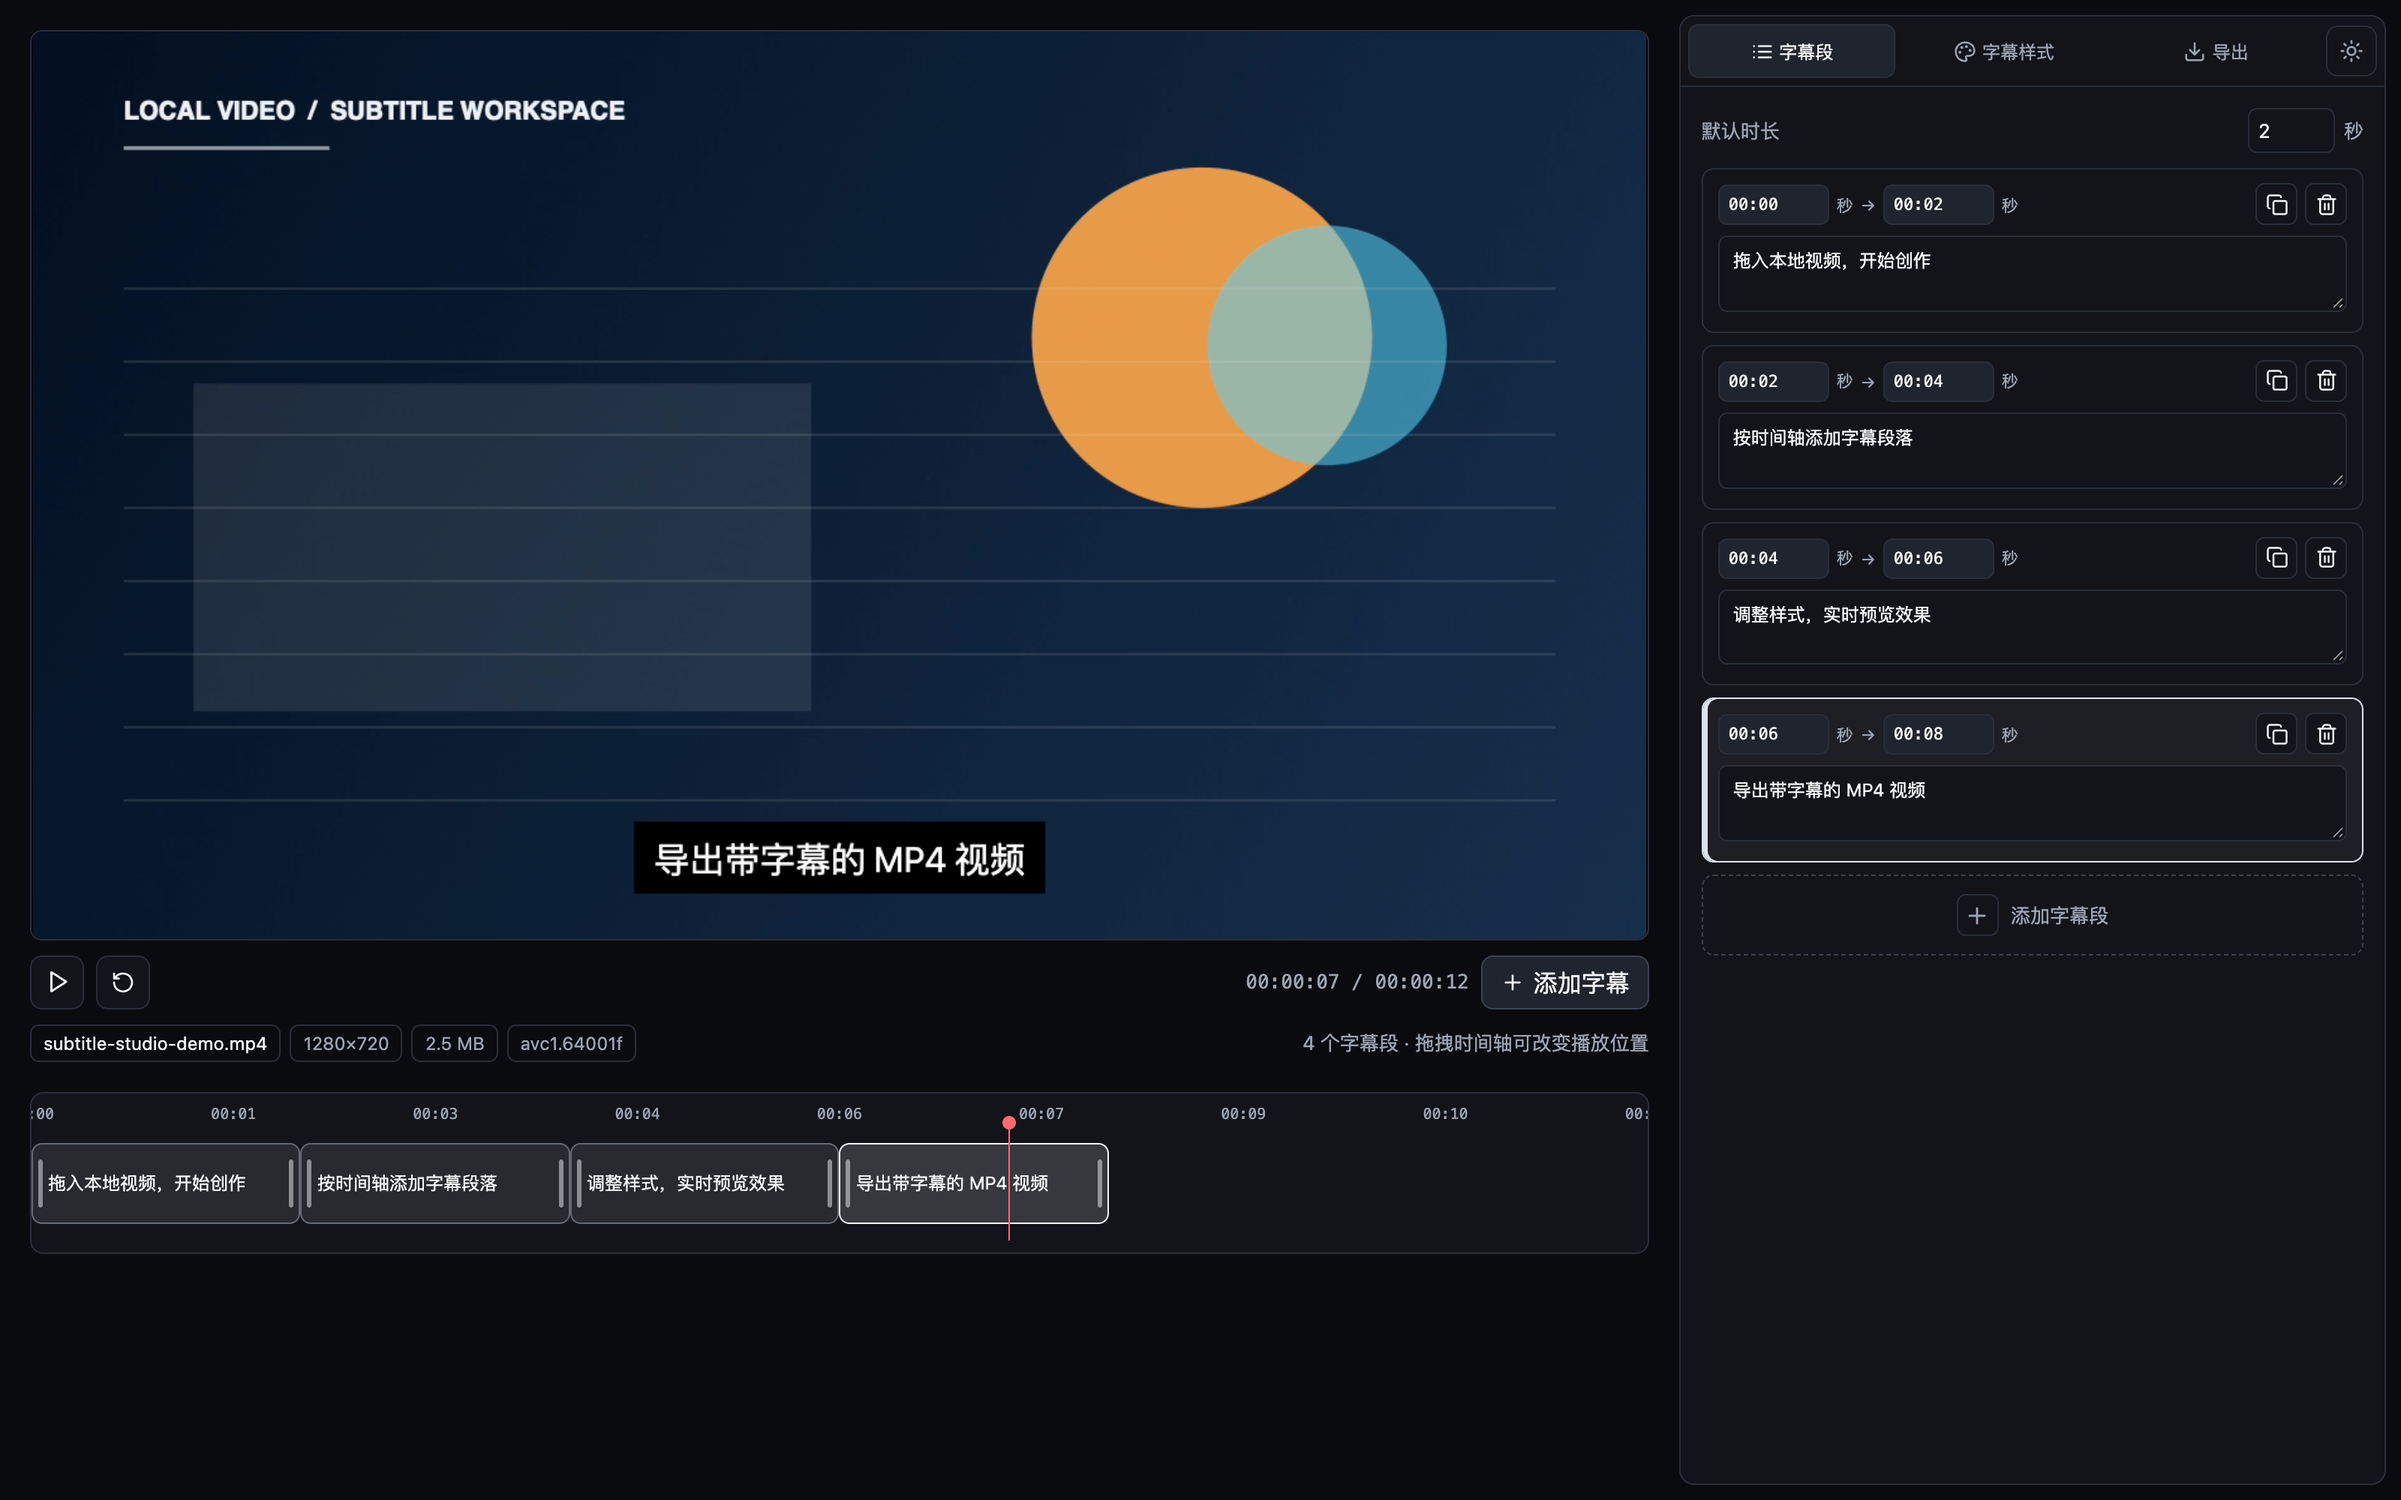
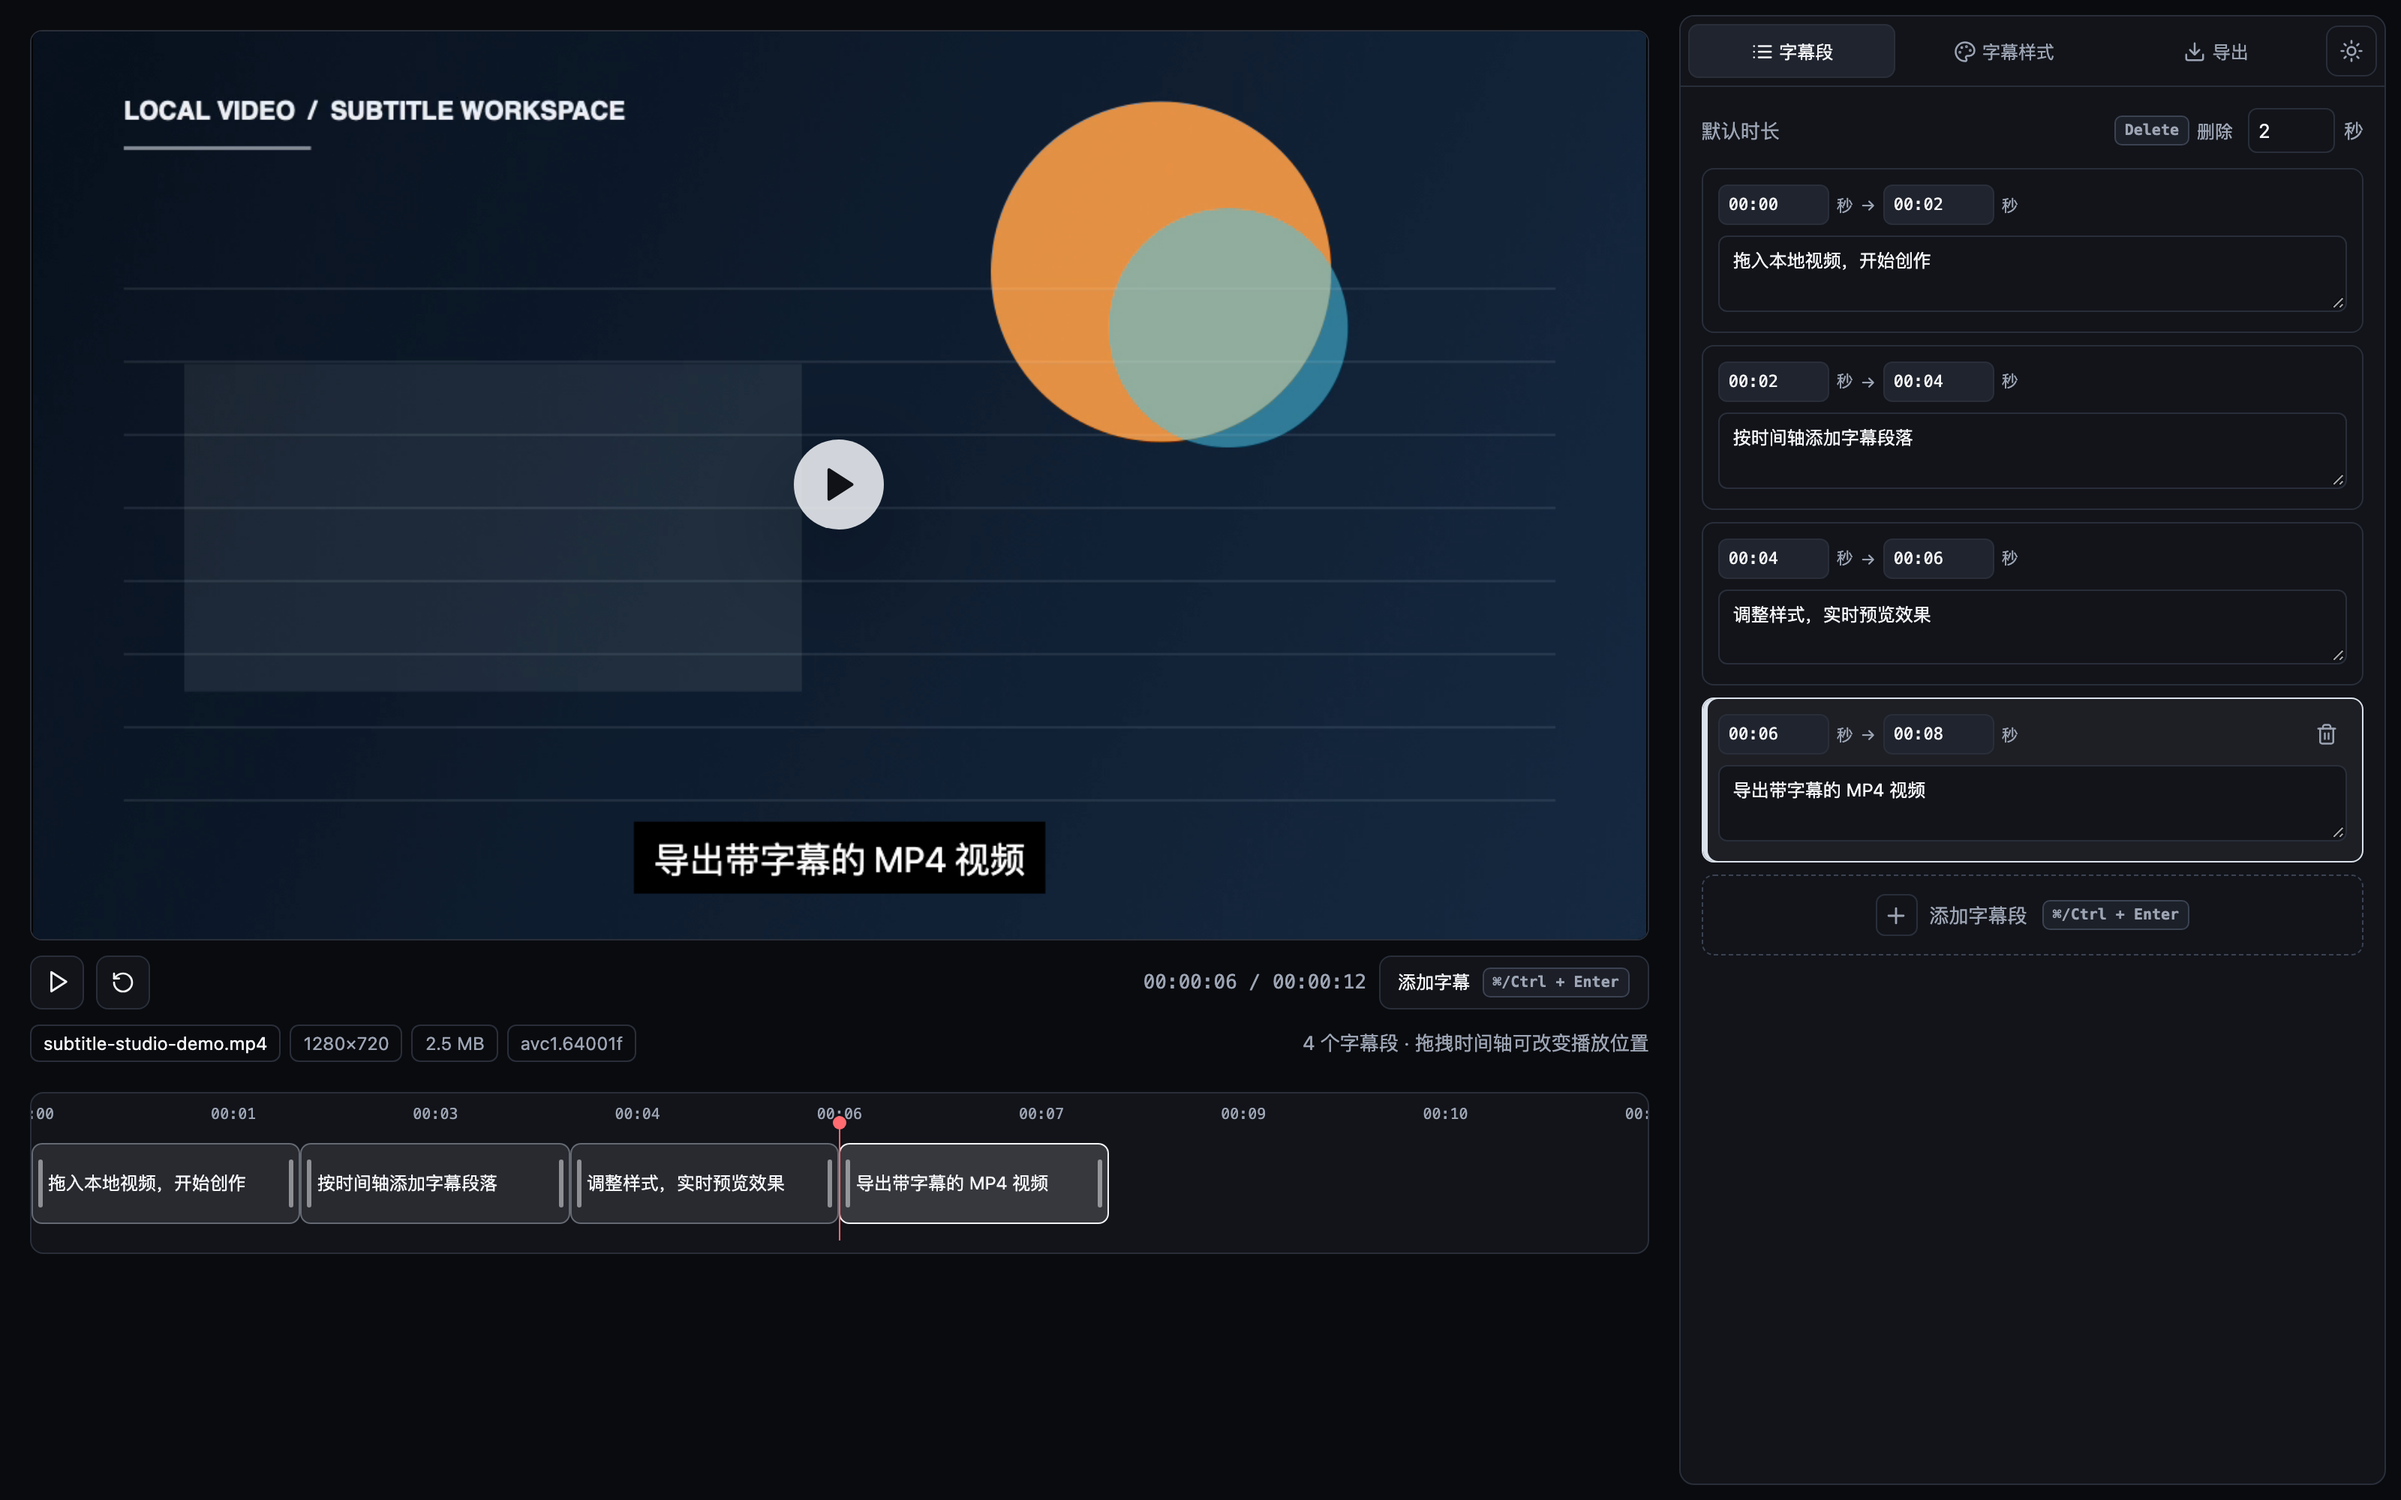
feat: 添加首页网格交互光效并更新截图

diff --git a/src/styles.css b/src/styles.css
@@ -2873,8 +2873,80 @@ input[type="color"] {
 
 /* Landing page refinement */
 .upload-screen {
+  --grid-focus-x: 50%;
+  --grid-focus-y: 50%;
+  --grid-focus-opacity: 0;
   padding: 0 28px;
   background-size: 52px 52px;
+}
+
+.grid-cursor-focus {
+  position: fixed;
+  inset: 0;
+  z-index: 0;
+  pointer-events: none;
+  background-image:
+    linear-gradient(
+      color-mix(in srgb, var(--landing-accent) 34%, transparent) 1px,
+      transparent 1px
+    ),
+    linear-gradient(
+      90deg,
+      color-mix(in srgb, var(--landing-accent) 34%, transparent) 1px,
+      transparent 1px
+    );
+  background-size: 52px 52px;
+  opacity: var(--grid-focus-opacity);
+  mix-blend-mode: screen;
+  will-change: opacity;
+  -webkit-mask-image: radial-gradient(
+    circle 220px at var(--grid-focus-x) var(--grid-focus-y),
+    #000 0%,
+    rgba(0, 0, 0, 0.68) 24%,
+    rgba(0, 0, 0, 0.24) 58%,
+    transparent 100%
+  );
+  mask-image: radial-gradient(
+    circle 220px at var(--grid-focus-x) var(--grid-focus-y),
+    #000 0%,
+    rgba(0, 0, 0, 0.68) 24%,
+    rgba(0, 0, 0, 0.24) 58%,
+    transparent 100%
+  );
+  transition: opacity 240ms ease;
+}
+
+:root[data-theme="light"] .grid-cursor-focus {
+  mix-blend-mode: multiply;
+}
+
+.upload-screen::before {
+  content: "";
+  position: fixed;
+  top: -30%;
+  left: -90%;
+  z-index: 0;
+  width: 190vw;
+  height: 160vh;
+  pointer-events: none;
+  background: linear-gradient(
+    105deg,
+    transparent 42%,
+    color-mix(in srgb, var(--landing-accent) 8%, transparent) 47%,
+    color-mix(in srgb, var(--landing-accent) 28%, transparent) 50%,
+    color-mix(in srgb, var(--landing-accent) 8%, transparent) 53%,
+    transparent 58%
+  );
+  filter: blur(1px);
+  mix-blend-mode: screen;
+  opacity: 0;
+  transform: translate3d(0, 0, 0) rotate(-6deg);
+  will-change: transform, opacity;
+  animation: grid-light-sweep 13s 3s cubic-bezier(0.4, 0, 0.2, 1) infinite;
+}
+
+:root[data-theme="light"] .upload-screen::before {
+  mix-blend-mode: multiply;
 }
 
 .upload-screen > main,
@@ -3212,6 +3284,26 @@ input[type="color"] {
   }
 }
 
+@keyframes grid-light-sweep {
+  0%,
+  72% {
+    opacity: 0;
+    transform: translate3d(-44%, 0, 0) rotate(-6deg);
+  }
+  76% {
+    opacity: 0.62;
+  }
+  87% {
+    opacity: 0.42;
+    transform: translate3d(44%, 0, 0) rotate(-6deg);
+  }
+  92%,
+  100% {
+    opacity: 0;
+    transform: translate3d(96%, 0, 0) rotate(-6deg);
+  }
+}
+
 @media (max-width: 900px) {
   .landing-hero {
     min-height: 0;
@@ -3451,5 +3543,13 @@ input[type="color"] {
   .landing-scroll-line::after,
   .cache-banner {
     animation: none;
+  }
+
+  .upload-screen::before {
+    display: none;
+  }
+
+  .grid-cursor-focus {
+    display: none;
   }
 }

diff --git a/src/components/UploadScreen.tsx b/src/components/UploadScreen.tsx
@@ -1,4 +1,4 @@
-import { useState, type DragEvent as ReactDragEvent } from 'react';
+import { useRef, useState, type DragEvent as ReactDragEvent } from 'react';
 import {
   FileVideo,
   Github,
@@ -47,10 +47,26 @@ export function UploadScreen({
   onDrop,
 }: UploadScreenProps) {
   const [dragActive, setDragActive] = useState(false);
+  const screenRef = useRef<HTMLDivElement>(null);
   const busy = loading || restoring;
 
   return (
-    <div className="upload-screen">
+    <div
+      ref={screenRef}
+      className="upload-screen"
+      onPointerMove={(event) => {
+        if (event.pointerType !== 'mouse') return;
+        const screen = screenRef.current;
+        if (!screen) return;
+        screen.style.setProperty('--grid-focus-x', `${event.clientX}px`);
+        screen.style.setProperty('--grid-focus-y', `${event.clientY}px`);
+        screen.style.setProperty('--grid-focus-opacity', '1');
+      }}
+      onPointerLeave={() => {
+        screenRef.current?.style.setProperty('--grid-focus-opacity', '0');
+      }}
+    >
+      <div className="grid-cursor-focus" aria-hidden="true" />
       <ParticleField theme={theme} />
 
       {cacheOffer && (
